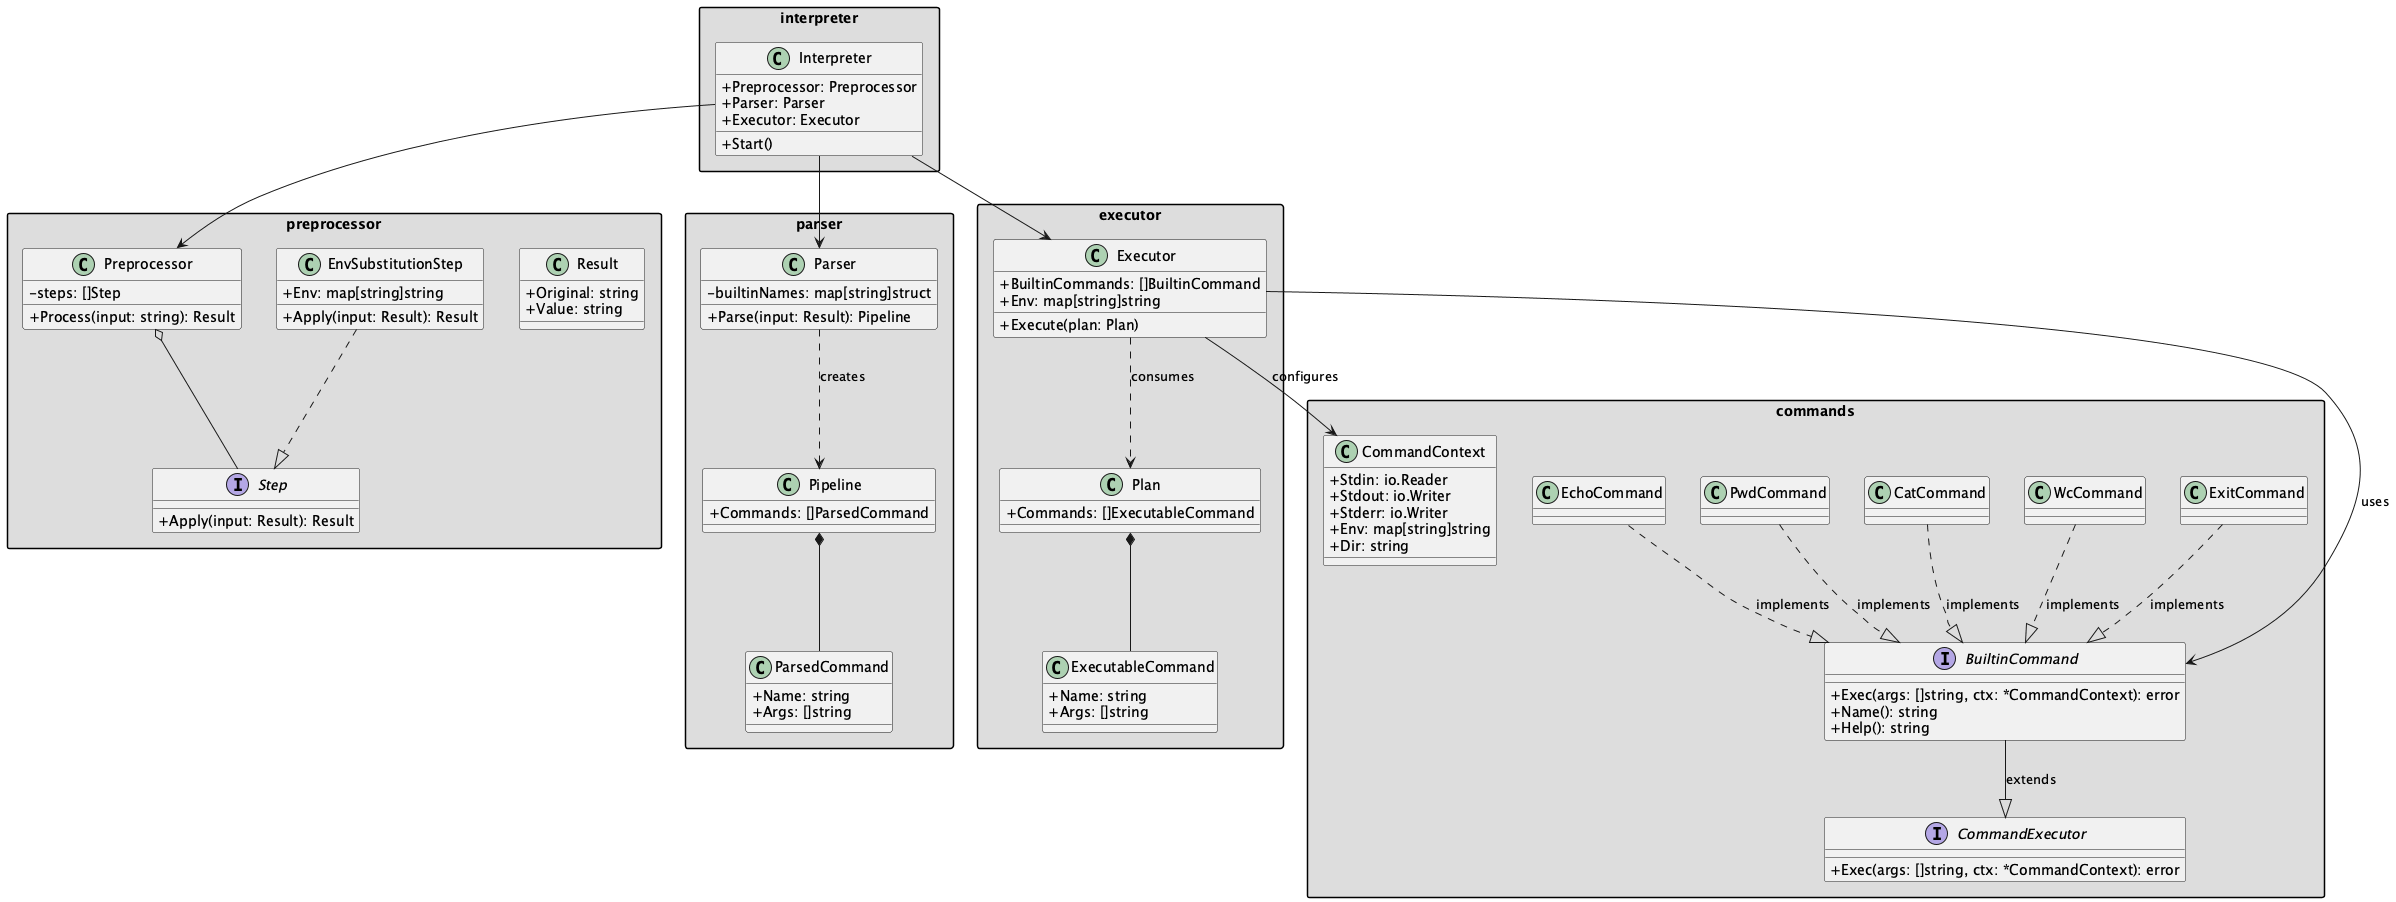
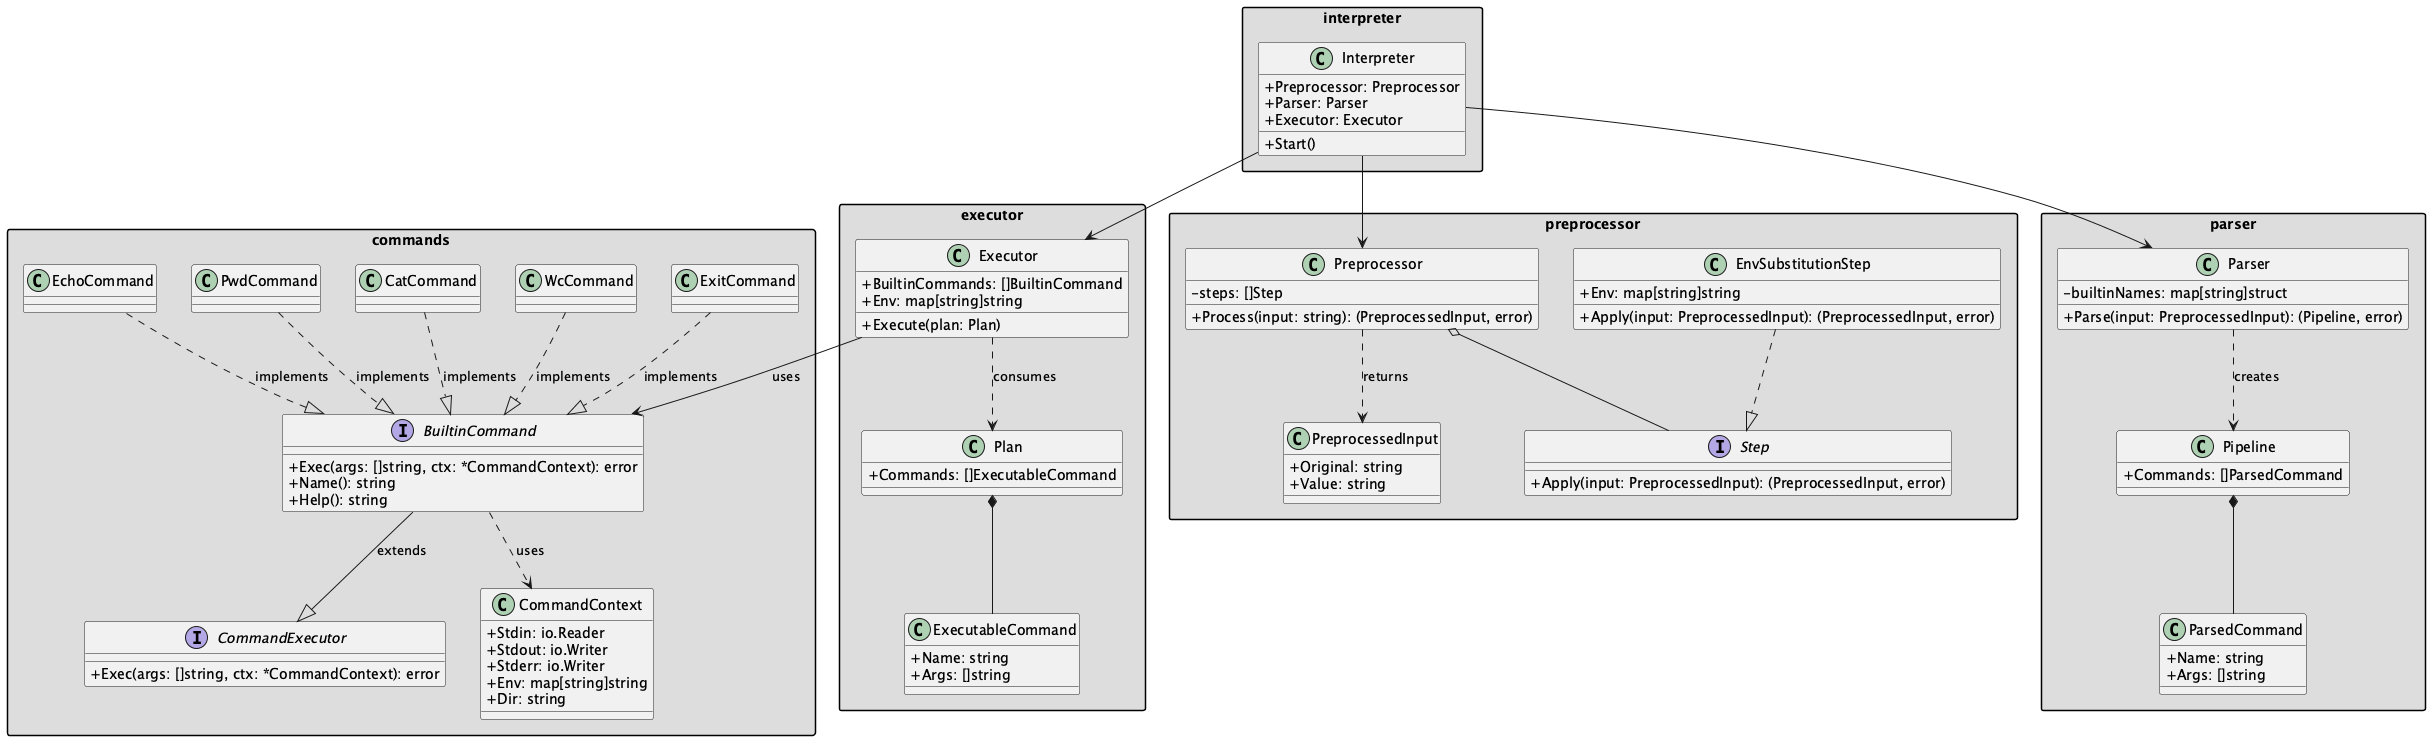
Fix uml & readme

diff --git a/internal/parser/parser_test.go b/internal/parser/parser_test.go
@@ -14,7 +14,7 @@ func newTestParser() *Parser {
 func TestParser_Parse_ExitCommand(t *testing.T) {
 	parser := newTestParser()
 
-	_, err := parser.Parse(preprocessor.Result{Original: "exit", Value: "exit"})
+	_, err := parser.Parse(preprocessor.PreprocessedInput{Original: "exit", Value: "exit"})
 
 	if !customErrors.Is(err, customErrors.ErrExit) {
 		t.Fatalf("ожидалась ошибка ErrExit, получено: %v", err)
@@ -24,7 +24,7 @@ func TestParser_Parse_ExitCommand(t *testing.T) {
 func TestParser_Parse_SingleCommand(t *testing.T) {
 	parser := newTestParser()
 
-	pipeline, err := parser.Parse(preprocessor.Result{Original: "echo hello", Value: "echo hello"})
+	pipeline, err := parser.Parse(preprocessor.PreprocessedInput{Original: "echo hello", Value: "echo hello"})
 	if err != nil {
 		t.Fatalf("неожиданная ошибка: %v", err)
 	}
@@ -42,7 +42,7 @@ func TestParser_Parse_SingleCommand(t *testing.T) {
 func TestParser_Parse_Pipeline(t *testing.T) {
 	parser := newTestParser()
 
-	pipeline, err := parser.Parse(preprocessor.Result{Original: "", Value: "echo hello | wc -w"})
+	pipeline, err := parser.Parse(preprocessor.PreprocessedInput{Original: "", Value: "echo hello | wc -w"})
 	if err != nil {
 		t.Fatalf("неожиданная ошибка: %v", err)
 	}
@@ -63,7 +63,7 @@ func TestParser_Parse_Pipeline(t *testing.T) {
 func TestParser_Parse_CommandNotFound(t *testing.T) {
 	parser := newTestParser()
 
-	_, err := parser.Parse(preprocessor.Result{Original: "", Value: "unknowncmd"})
+	_, err := parser.Parse(preprocessor.PreprocessedInput{Original: "", Value: "unknowncmd"})
 	if err == nil {
 		t.Fatalf("ожидалась ошибка для неизвестной команды")
 	}
@@ -72,7 +72,7 @@ func TestParser_Parse_CommandNotFound(t *testing.T) {
 func TestParser_Parse_EmptyInput(t *testing.T) {
 	parser := newTestParser()
 
-	pipeline, err := parser.Parse(preprocessor.Result{Original: "", Value: "   "})
+	pipeline, err := parser.Parse(preprocessor.PreprocessedInput{Original: "", Value: "   "})
 	if err != nil {
 		t.Fatalf("неожиданная ошибка: %v", err)
 	}

diff --git a/internal/preprocessor/preprocessor.go b/internal/preprocessor/preprocessor.go
@@ -6,15 +6,15 @@ import (
 	"regexp"
 )
 
-// Result описывает состояние строки после выполнения всех шагов препроцессинга.
-type Result struct {
+// PreprocessedInput описывает строку после выполнения шагов препроцессинга.
+type PreprocessedInput struct {
 	Original string
 	Value    string
 }
 
 // Step описывает отдельный шаг препроцессинга.
 type Step interface {
-	Apply(input Result) (Result, error)
+	Apply(input PreprocessedInput) (PreprocessedInput, error)
 }
 
 // Preprocessor выполняет последовательность шагов обработки пользовательского ввода.
@@ -28,8 +28,8 @@ func NewPreprocessor(steps ...Step) *Preprocessor {
 }
 
 // Process последовательно применяет шаги к исходной строке.
-func (p *Preprocessor) Process(input string) (Result, error) {
-	result := Result{
+func (p *Preprocessor) Process(input string) (PreprocessedInput, error) {
+	result := PreprocessedInput{
 		Original: input,
 		Value:    input,
 	}
@@ -38,7 +38,7 @@ func (p *Preprocessor) Process(input string) (Result, error) {
 	for _, step := range p.steps {
 		result, err = step.Apply(result)
 		if err != nil {
-			return Result{}, err
+			return PreprocessedInput{}, err
 		}
 	}
 
@@ -56,7 +56,7 @@ var (
 )
 
 // Apply реализует шаг подстановки переменных окружения.
-func (s *EnvSubstitutionStep) Apply(input Result) (Result, error) {
+func (s *EnvSubstitutionStep) Apply(input PreprocessedInput) (PreprocessedInput, error) {
 	value := bracedPattern.ReplaceAllStringFunc(input.Value, func(match string) string {
 		varName := match[2 : len(match)-1]
 		if envValue, ok := s.Env[varName]; ok {
@@ -73,7 +73,7 @@ func (s *EnvSubstitutionStep) Apply(input Result) (Result, error) {
 		return match
 	})
 
-	return Result{
+	return PreprocessedInput{
 		Original: input.Original,
 		Value:    value,
 	}, nil

diff --git a/internal/parser/parser.go b/internal/parser/parser.go
@@ -41,7 +41,7 @@ func NewParser(builtinNames []string) *Parser {
 }
 
 // Parse превращает результат препроцессинга в Pipeline.
-func (p *Parser) Parse(input preprocessor.Result) (Pipeline, error) {
+func (p *Parser) Parse(input preprocessor.PreprocessedInput) (Pipeline, error) {
 	if strings.TrimSpace(input.Value) == "" {
 		return Pipeline{}, nil
 	}

diff --git a/docs/architecture.md b/docs/architecture.md
@@ -71,7 +71,7 @@ $UNDEFINED
 Первая подсистема использует **Template Method** и **Strategy** паттерны. Принимает строку ввода и прогоняет её через последовательность шагов. Каждый шаг реализует интерфейс `Step` и получает на вход объект `Result`, содержащий исходную и текущее значение строки. Метод `Process()` определяет общий алгоритм обработки, но делегирует конкретные преобразования объектам `Step`. На данный момент реализован шаг `EnvSubstitutionStep`, который отвечает за подстановку переменных окружения `$VAR` и `${VAR}`. Архитектура позволяет добавлять новые шаги (например, экранирование, нормализацию пробелов и т.д.), не затрагивая остальной код.
 
 ### Парсинг
-Второй слой использует **Builder** паттерн для построения модели данных. Получает `preprocessor.Result` и строит собственную модель `Pipeline`, состоящую из набора `ParsedCommand { Name, Args }`. Парсер ничего не знает о переменных окружения или потоках ввода/вывода, он лишь проверяет корректность команд (builtin / внешняя / присваивание) и возвращает чистую структуру данных. Использует утилиты из пакета `checkutils` для валидации команд.
+Второй слой использует **Builder** паттерн для построения модели данных. Получает `preprocessor.PreprocessedInput` и строит собственную модель `Pipeline`, состоящую из набора `ParsedCommand { Name, Args }`. Парсер ничего не знает о переменных окружения или потоках ввода/вывода, он лишь проверяет корректность команд (builtin / внешняя / присваивание) и возвращает чистую структуру данных. Использует утилиты из пакета `checkutils` для валидации команд.
 
 ### Выполнение
 Третий слой использует **Command** паттерн. Принимает `executor.Plan`, который состоит из `ExecutableCommand` (инкапсулирует запрос на выполнение команды). План формируется интерпретатором на основе данных парсера. `Executor` отвечает за:
@@ -99,7 +99,7 @@ $UNDEFINED
 
 - `Preprocessor` — использует **Template Method** и **Strategy** паттерны. Принимает строку ввода, прогоняет через последовательность шагов (`Step`). Каждый шаг реализует интерфейс `Step`. Метод `Process()` определяет алгоритм обработки, но делегирует конкретные преобразования объектам `Step`.
 
-- `Parser` — использует **Builder** паттерн для построения модели данных. Принимает `preprocessor.Result`, возвращает `parser.Pipeline`. Конфигурируется списком имен builtin-команд. Не зависит от пакета `commands` или `executor`. Использует утилиты из `checkutils` для валидации команд.
+- `Parser` — использует **Builder** паттерн для построения модели данных. Принимает `preprocessor.PreprocessedInput`, возвращает `parser.Pipeline`. Конфигурируется списком имен builtin-команд. Не зависит от пакета `commands` или `executor`. Использует утилиты из `checkutils` для валидации команд.
 
 - `Executor` — реализует **Command** паттерн. Принимает `Plan` с набором `ExecutableCommand` (инкапсулирует запросы на выполнение). Отвечает за создание контекстов выполнения, настройку пайпов и запуск команд.
 

diff --git a/README.md b/README.md
@@ -100,6 +100,12 @@ echo "echo hello world | wc" | ./go-cli
 
 ## 🎯 Примеры использования
 
+### Демонстрация возможностей
+Запустите демо-скрипт для просмотра всех возможностей:
+```bash
+./demo.sh
+```
+
 ### Базовые команды
 ```bash
 $ echo "Привет, мир!"
@@ -135,25 +141,6 @@ hello world
 1 2 12
 > exit
 ```
-
-## 🧪 Тестирование
-
-### Демонстрация возможностей
-Запустите демо-скрипт для просмотра всех возможностей:
-```bash
-./demo.sh
-```
-
-### Юнит-тесты
-```bash
-go test ./internal/... -v
-```
-
-### Покрытие кода
-```bash
-go test ./internal/... -cover
-```
-
 ## 📁 Структура проекта
 
 ```
@@ -185,37 +172,7 @@ golangci-lint run
 - **Commands**: реализация встроенных команд
 - **Interpreter**: основной цикл интерпретатора
 
-Подробное описание архитектуры доступно в [docs/arch.md](docs/arch.md).
-
-## 🤝 Как помочь проекту
-
-Мы приветствуем вклад в развитие проекта! Вот как вы можете помочь:
-
-### Сообщить об ошибке
-Если вы нашли баг, пожалуйста, создайте [issue](https://github.com/ggerlakh/software-design-mhs-itmo/issues) с описанием:
-- Шагов для воспроизведения
-- Ожидаемого и фактического поведения
-- Версии Go и ОС
-
-### Предложить улучшение
-Есть идея для новой функции? Создайте issue с тегом `enhancement` и опишите:
-- Зачем нужна функция
-- Как она должна работать
-- Примеры использования
-
-### Контрибьютить код
-1. Форкните репозиторий
-2. Создайте ветку для вашей функции (`git checkout -b feature/amazing-feature`)
-3. Напишите код и тесты
-4. Убедитесь, что все тесты проходят (`go test ./...`)
-5. Запустите линтер (`golangci-lint run`)
-6. Закоммитьте изменения (`git commit -m 'Add amazing feature'`)
-7. Запушьте в ветку (`git push origin feature/amazing-feature`)
-8. Откройте Pull Request
-
-### Связаться с разработчиками
-- GitHub Issues: [создать issue](https://github.com/ggerlakh/software-design-mhs-itmo/issues)
-- Pull Requests: [открыть PR](https://github.com/ggerlakh/software-design-mhs-itmo/pulls)
+Подробное описание архитектуры доступно в [docs/architecture.md](docs/architecture.md).
 
 ### Руководство по стилю кода
 - Следуйте [Effective Go](https://golang.org/doc/effective_go)
@@ -224,13 +181,21 @@ golangci-lint run
 - Пишите тесты для нового функционала
 - Покрытие тестами должно быть не менее 50%
 
+## 🧪 Тестирование
+
+### Юнит-тесты
+```bash
+go test ./internal/... -v
+```
+
+### Покрытие кода
+```bash
+go test ./internal/... -cover
+```
+
 ## 📄 Лицензия
 
 Этот проект лицензирован под [MIT License](LICENSE.TXT).
-
-### Используемые компоненты
-
-Проект использует только стандартную библиотеку Go и не имеет внешних зависимостей.
 
 ## 👥 Состав команды
 
